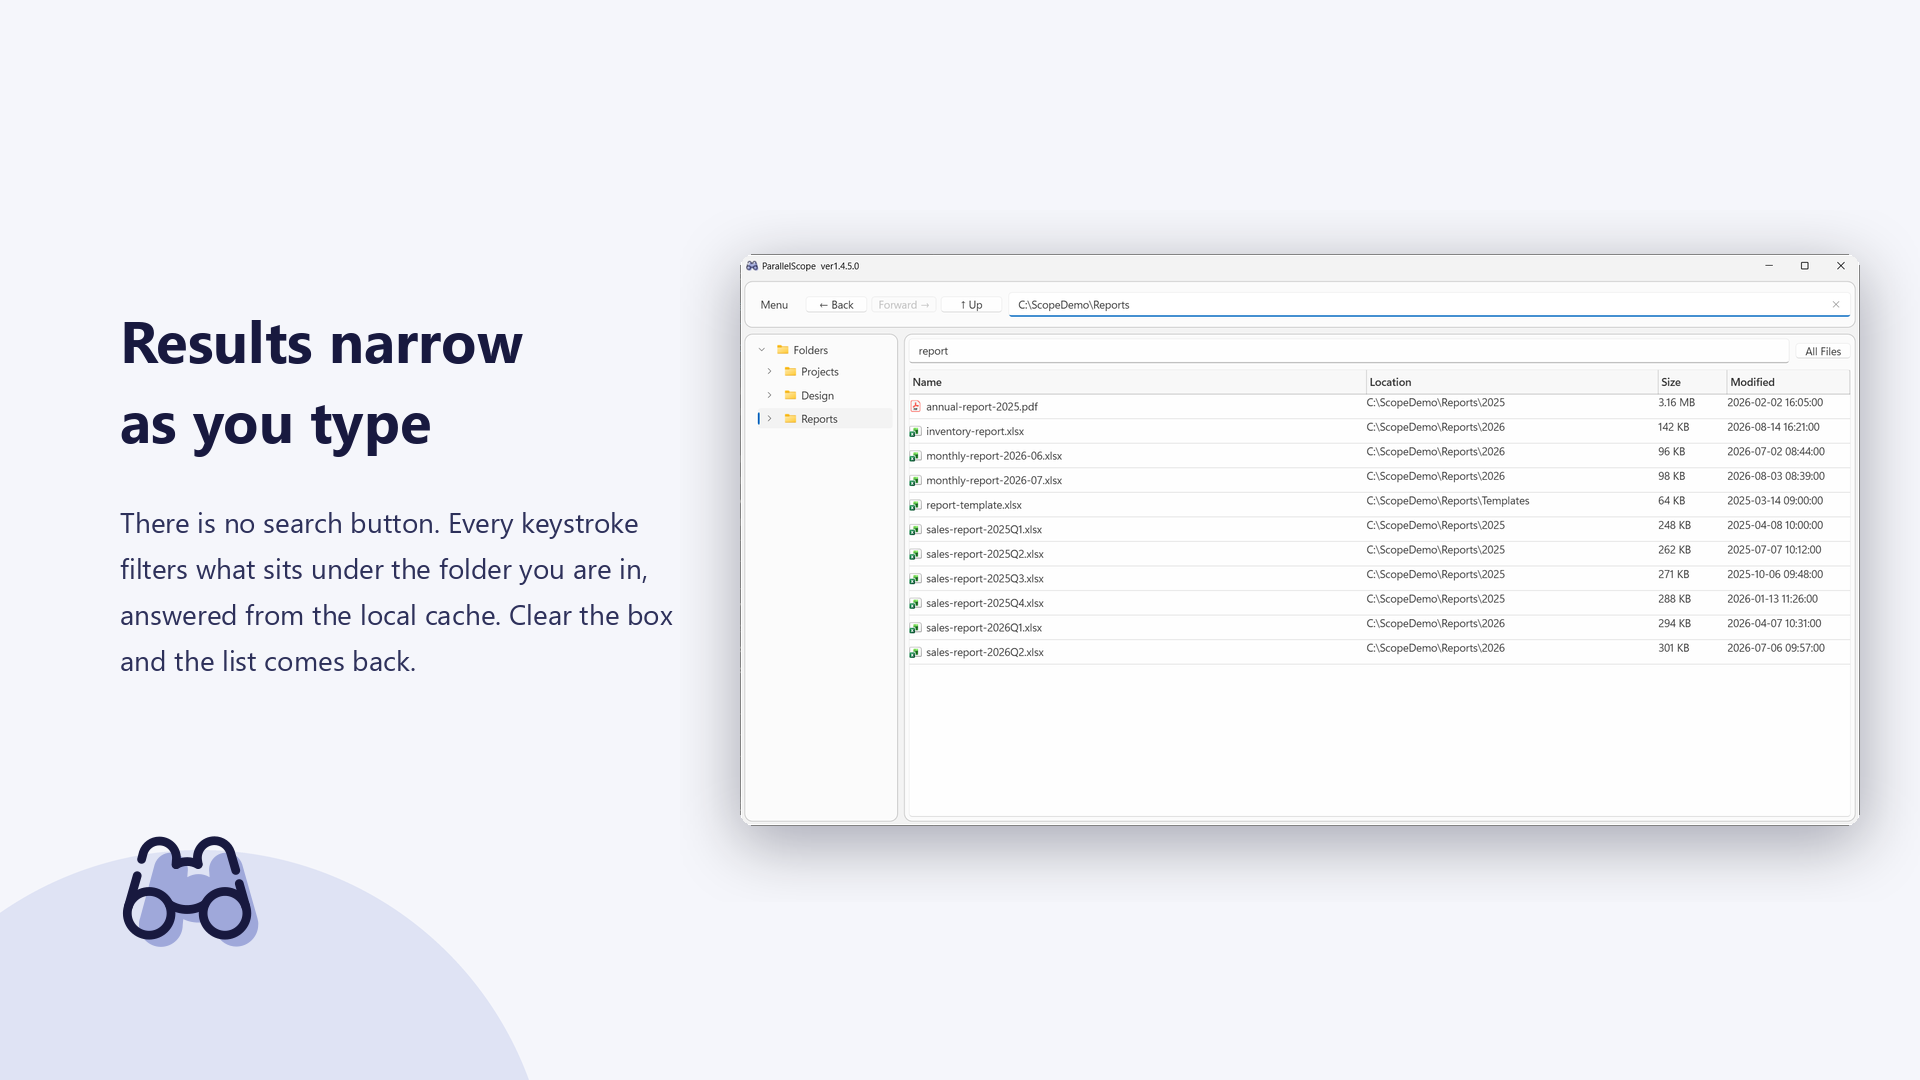
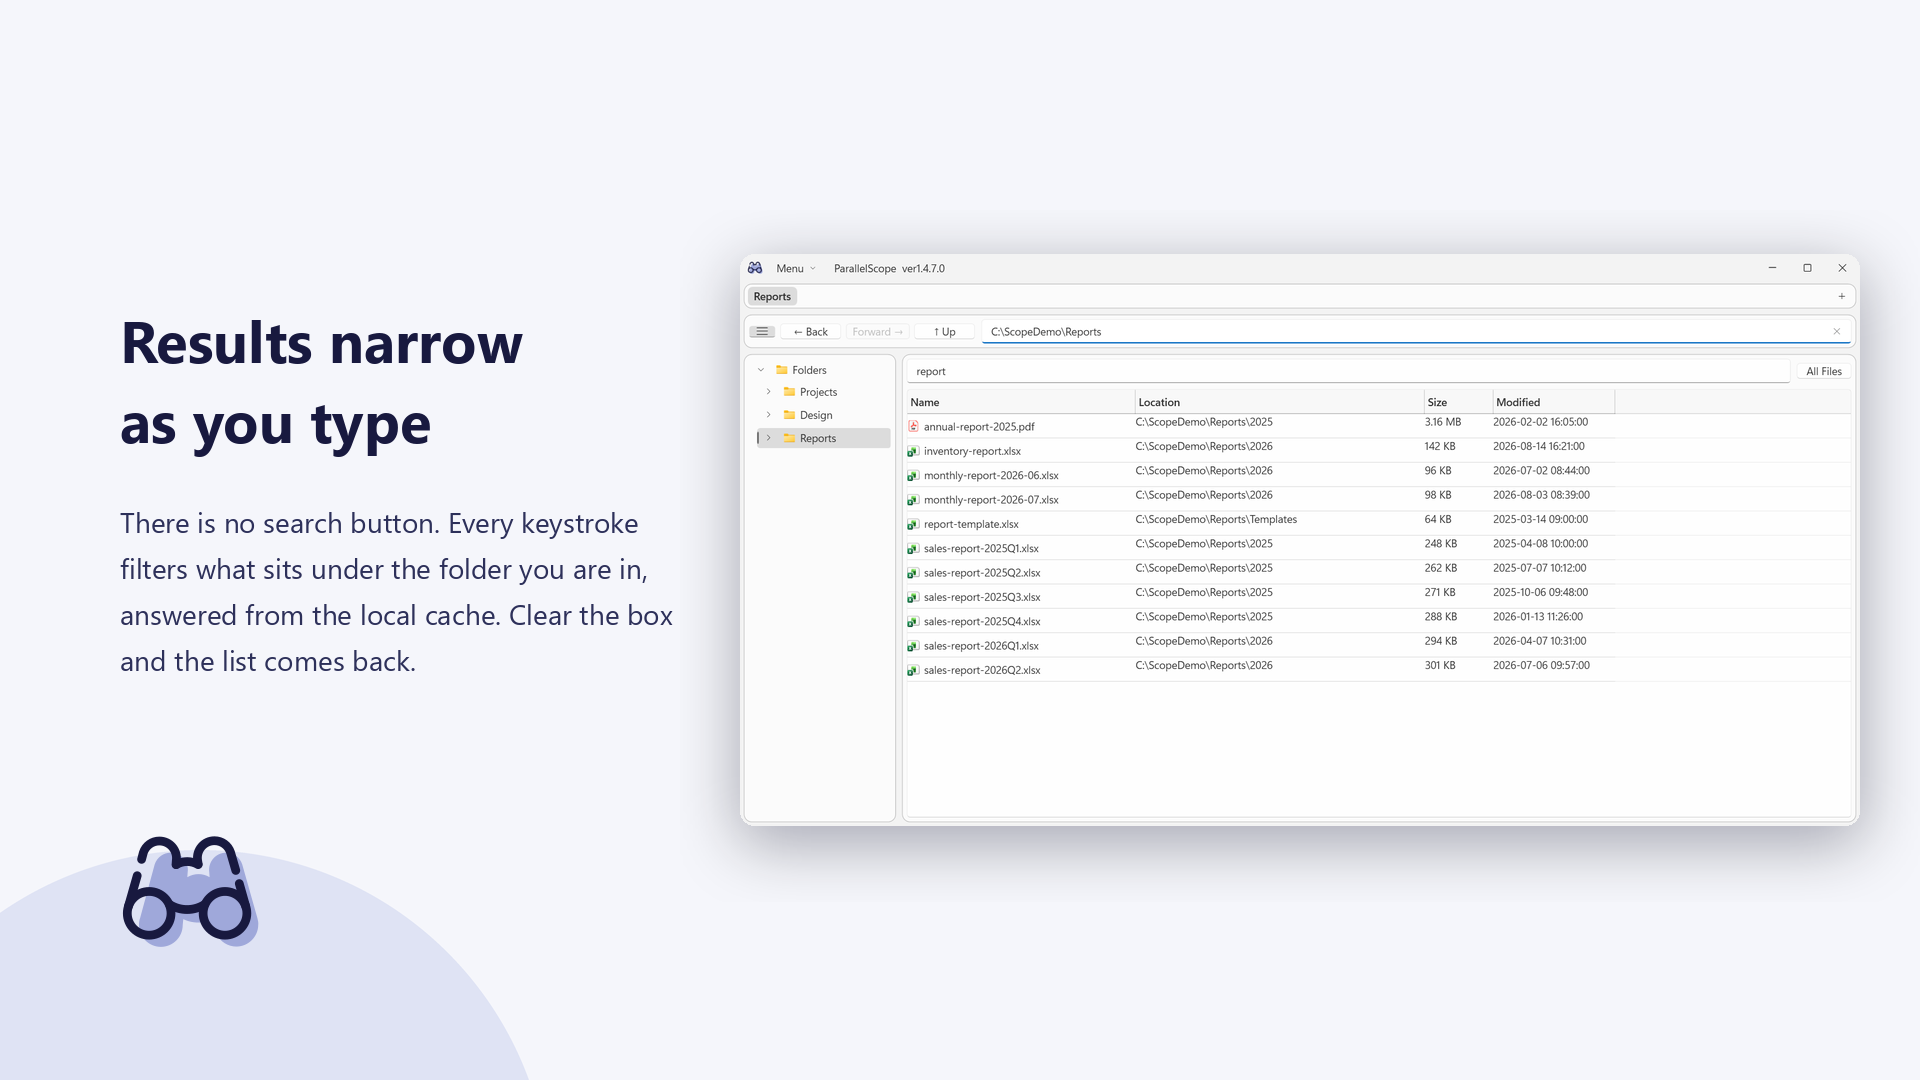
ストア掲載用に複数タブと2画面のスクショを追加する

Changed region(s): [[0.375, 0.2444, 0.9688, 0.6417], [0.5938, 0.3667, 0.6562, 0.6417]]

diff --git a/store/assets/compose-screenshots.py b/store/assets/compose-screenshots.py
@@ -139,6 +139,36 @@ SHOTS = [
                     "Light and dark are both included.",
         },
     },
+    {
+        "raw": "05-tabs.png",
+        "out": "05-tabs.png",
+        "ja": {
+            "headline": ["見たい場所を", "タブで並べておく"],
+            "body": "フォルダごとにタブを開いておけば、行ったり来たりが一手で済みます。"
+                    "タブごとに履歴も検索語も別々。開いていたタブは次に起動したときも残っています。",
+        },
+        "en": {
+            "headline": ["Keep every folder", "a tab away"],
+            "body": "Open a tab per folder and switching is one click. Each tab keeps its own "
+                    "history, search text and sort order, and the tabs you left open come back "
+                    "the next time you start.",
+        },
+    },
+    {
+        "raw": "06-split-view.png",
+        "out": "06-split-view.png",
+        "ja": {
+            "headline": ["左右に並べて", "見比べる"],
+            "body": "画面を2つに分けると、離れたフォルダを並べて確認できます。左右にも上下にも"
+                    "分けられ、タブはドラッグで反対側へ移せます。ツリーは畳んで一覧を広く使えます。",
+        },
+        "en": {
+            "headline": ["Two folders,", "side by side"],
+            "body": "Split the window and compare folders that live far apart. Choose side by "
+                    "side or stacked, drag a tab across to the other pane, and collapse a tree "
+                    "when the list needs the room.",
+        },
+    },
 ]
 
 

diff --git a/store/README.md b/store/README.md
@@ -1,4 +1,4 @@
-# Microsoft Store への提出物（画像）
+# Microsoft Store への提出物（画像）
 
 Partner Center へ上げる画像と、その作り方をまとめる。
 **掲載情報は日本語と英語の2言語ぶんあるので、文字が載る画像は言語ごとに作る。**
@@ -7,7 +7,7 @@ Partner Center へ上げる画像と、その作り方をまとめる。
 
 | Partner Center の名前 | ファイル | 寸法 |
 | --- | --- | --- |
-| スクリーンショット | `store/screenshots/{ja,en}/01〜04-*.png` | 1920x1080（各4枚） |
+| スクリーンショット | `store/screenshots/{ja,en}/01〜06-*.png` | 1920x1080（各6枚） |
 | ストアロゴ（掲載ロゴ） | `store/logo-300x300.png` | 300x300 |
 | ポスターアート | `store/promo/{ja,en}/poster-art-720x1080.png` | 720x1080 |
 | ボックスアート | `store/promo/{ja,en}/box-art-1080x1080.png` | 1080x1080 |
@@ -73,7 +73,7 @@ python store/assets/compose-screenshots.py
 
 - **写すのは架空のフォルダ一式だけ**（`store/assets/sample-tree.ps1` が `C:\ScopeDemo` に作る）。
   第三者のファイル名が写り込むと審査で落ちる。無ければ撮影時に自動で作られる。
-- **4枚は別の画面にすること**（ツリー／検索／All Files／お気に入り＋ダークテーマ）。
+- **6枚は別の画面にすること**（ツリー／検索／All Files／お気に入り＋ダークテーマ／複数タブ／2画面）。
   同じ絵が並んでいたら撮り直す。
 - **Type 列はどの1枚にも出さない。** 中身は Windows シェルが返す種類名で、アプリの表示言語ではなく
   **OS の表示言語**に従う。日本語環境で撮ると、英語版の掲載画像に「ファイル フォルダー」が並ぶ。
@@ -81,7 +81,8 @@ python store/assets/compose-screenshots.py
   `settings.json` を書いてから起動して切り替える。撮影用の引数をアプリへ足すより、
   利用者と同じ経路を通したほうが「実際の画面である」ことを保てる。
 - `settings.json` では決められない操作（フォルダを開く・検索語を打つ・ノードを開く）は
-  UI オートメーションでアプリを触って行う。
+  UI オートメーションでアプリを触って行う。**タブ構成と分割（05・06）は `settings.json` に
+  書けるので触らない**（Plus が有効なら起動時に復元される）。
 - **撮るのは開発ビルド（`bin/Debug/...`）。** 表示言語はアプリ内の対訳表で切り替わるので、
   MSIX の登録は要らない。Plus 機能は DEBUG ビルド限定の環境変数 `PARALLELSCOPE_DEBUG_PLUS=1`
   で有効にする（購読済みの画面を撮るため）。
@@ -122,9 +123,9 @@ python store/assets/generate-store-art.py en         # 英語だけ
 
 ## 提出前の確認
 
-- [ ] スクリーンショットが日本語と英語で4枚ずつあり、掲載情報の言語ごとに貼ってある
+- [ ] スクリーンショットが日本語と英語で6枚ずつあり、掲載情報の言語ごとに貼ってある
       （`store/screenshots/ja/`・`store/screenshots/en/`）
-- [ ] **4枚が別の画面になっている**（同じ絵が並んでいたら撮り直す）
+- [ ] **6枚が別の画面になっている**（同じ絵が並んでいたら撮り直す）
 - [ ] スクリーンショットに第三者のファイル名・フォルダ名が写っていない
 - [ ] 英語版のスクリーンショットに日本語が写っていない（Type 列・シェルが返す文字列に注意）
 - [ ] 掲載ロゴが `store/` に、宣伝画像3枚が `store/promo/{ja,en}/` にあり、
